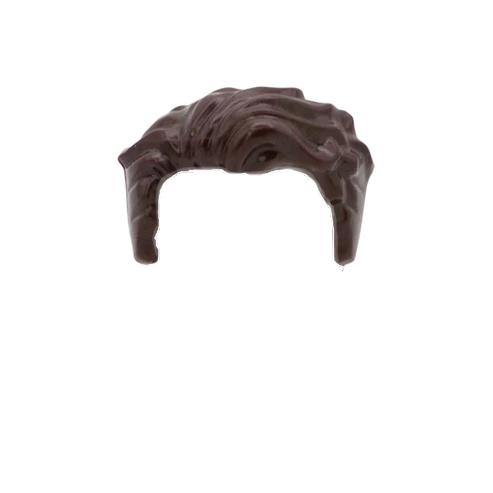
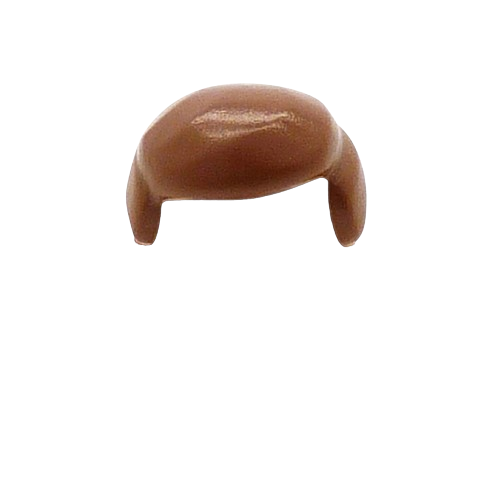
update

Changed region(s): [[0.2434, 0.1521, 0.7606, 0.5477]]

diff --git a/pruebaJesus.html b/pruebaJesus.html
@@ -18,7 +18,7 @@
     margin-left: 7%;">
 
       <br>
-
+<!-- Selector de cosos-->      
       <tr>
 
         <!-- Gorro -->
@@ -222,11 +222,11 @@
         <!-- Gorro Delante -->
         <td id="gorro1" style="
         padding-left: 60%;
-        margin-top: -22.5%;
+        margin-top: -22.8%;
         position: absolute;
         z-index: 889;
         ">
-          <img src="assets/legoCreator/gorritoSafariDelante.png" alt="Gorro Safari Delante" style="width: 170px;">
+          <img src="assets/legoCreator/peloBasico.png" alt="Gorro Safari Delante" style="width: 170px;">
         </td>
 
         <!-- Gorro Detrás -->
@@ -236,7 +236,7 @@
         position: absolute;
         z-index: 880;
         ">
-          <img src="assets/legoCreator/gorritoSafariDetras.png" alt="Gorro Safari Detrás" style="width: 170px;">
+          <img src="" alt="Gorro Safari Detrás" style="width: 170px;">
         </td>
 
         <!-- Cabeza -->
